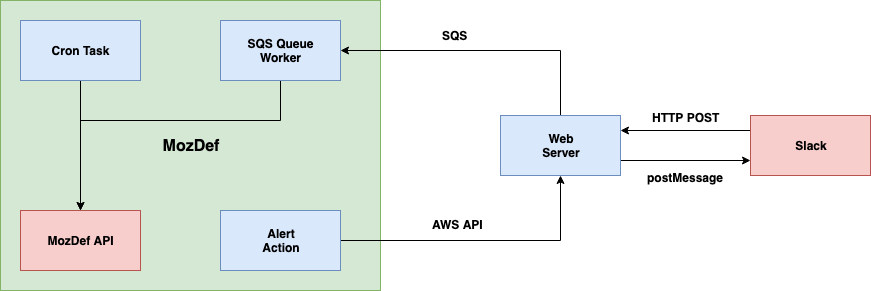
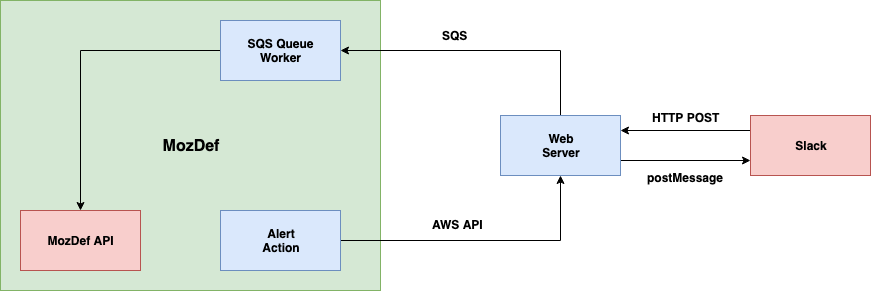
Remove duplicate alert handling from scope and make the MozDef UI changes optional to make the work more feasible

Changed region(s): [[0.0, 0.0619, 0.248, 0.2784], [0.093, 0.4021, 0.31, 0.433]]

diff --git a/docs/specifications/v0_1.md b/docs/specifications/v0_1.md
@@ -24,9 +24,9 @@ not having to handle them.
 the process of investigating an alert so that I can determine when it is
 not working as expected and not take on work I do not have to.
 
-**As a Mozillian**, I would like to be contacted in a friendly and non-intrusive
-way with information that explains in simple terms everything I need to
-understand and know how to respond.
+**As a Mozillian**, I would like to be contacted in a friendly way with
+information that explains in simple terms everything I need to understand
+and know how to respond.
 
 **As one of Mozilla’s Slack admins**, I would like to be able to easily
 understand how the triage bot will interface with Slack so that I can
@@ -65,23 +65,13 @@ be forwarded on to the relevant user.  This component has the following
 responsibilities:
 
 1. Given an alert, determine the email address belonging to the user identified.
-2. Query the REST API for similar alerts regarding the same user and either
-    1. Send an HTTP POST request to the web server component containing
-    information identifying the alert and the user or
-    2. Create or update a `DuplicateChain` to track the alert that triggered
-    the alert action until a response from the user is received.
+2. Invoke the the web server component via the AWS API to send information
+identifying the alert and the user.
 
 To notify the web server component about alerts, the alert action component
 will invoke the web server lambda function directly using the AWS API.  This
 will allow the alert action to authenticate itself to the web server using
 a key pair generated for a dedicated [IAM](https://aws.amazon.com/iam/) user.
-
-The alert action will make use of a table stored in the
-[MongoDB](https://www.mongodb.com/) instance that stores alerts in MozDef
-to store information about duplicate alerts that triggered the action before
-the user responds regarding the original. The type of data stored in this new
-table will be the `DuplicateChain` type defined in
-[Duplicate Alert Trackers](#duplicate-alert-trackers).
 
 The implementation of this component will reside within the
 [MozDef](https://github.com/mozilla/mozdef) repository.
@@ -107,24 +97,6 @@ mapping from user response to alert status.
 The implementation of this component will reside within the
 [MozDef](https://github.com/mozilla/mozdef) repository.
 
-### Cron Task
-
-Periodically, a [Cron](https://github.com/mozilla/MozDef/tree/master/cron) task
-will be run to:
-
-1. Retrieve `DuplicateChain`s from the MozDef API.
-2. Check, for each `(alert, user)` pair, to see if there is an alert whose status
-has been updated based on the user's response via Slack.
-3. Update all of the statuses of the duplicate alerts found to match that of the
-original alert.
-
-This process has the result of effectively "replaying" a user's response to one
-alert so that it is not necessary to message them about each duplicate alert
-received within some timeframe.
-
-The implementation of this component will reside within the
-[MozDef](https://github.com/mozilla/mozdef) repository.
-
 ## Additional Requirements
 
 ### Alert Status Update REST API Endpoint
@@ -134,31 +106,7 @@ endpoint will be added to MozDef's REST API to facilitate such updates.  This
 endpoint would accept information identifying an alert to which one or more
 users have responded as well as information indicating the response given.
 
-### Fetch Duplicate Chains REST API Endpoint
-
-At least one API endpoint will be required to facilitate the retrieval of
-`DuplicateChain`s.
-
-* The alert action component will need to be able to search for entries
-corresponding to a particular `(alert, user)` pair.
-* The cron task component will need to be able to retrieve a list of all
-`DuplicateChain`s stored.
-
-### Create/Update Duplicate Chain REST API Endpoint
-
-In order for the alert action component to create or update a `DuplicateChain`
-when a duplicate alert (i.e. an alert the web server is already handling) is
-encountered, an API endpoint will be needed to facilitate the creation or
-updating of entries.
-
-### Delete Duplicate Chain REST API Endpoint
-
-In order for the cron task component to delete a `DuplicateChain` after updating
-the status of any duplicate alerts whose originals have had their statuses
-updated, an endpoint will be required to facilitate the deletion of a single
-`DuplicateChain` entry at a time.
-
-### MozDef Alerts Page UI
+### MozDef Alerts Page UI (OPTIONAL)
 
 An addition will be made to MozDef's "Alerts" page, adding a column to the
 existing table of alerts within which the `status` of the alert will be
@@ -192,7 +140,7 @@ type AlertLabel
 * [duo_bypass_codes_generated](https://github.com/mozilla/mozdef_generic_alerts/blob/master/rules/duosecurity_bypass_generated.json)
 * [ssh_access_sign_releng](https://github.com/mozilla/MozDef/blob/master/alerts/ssh_access_signreleng.py)
 
-Requests sent to the web server containing information identifying alerts are
+Messages sent to the web server containing information identifying alerts are
 described here.  The complete specification for the API endpoint resides in
 the [API documentation](../api/v0_1.md).
 
@@ -245,30 +193,6 @@ by the web server component to include within the message to the user on Slack.
 Once the user responds, this identifier will be sent back with the response
 information by Slack allowing the web server to determine which alert was
 responded to.
-
-### Duplicate Alert Trackers
-
-The alert action component will be required to keep track of duplicate alerts
-that it does not send to the web server component.  In order to do so, the
-following data type will be stored in MozDef to track these alerts.
-
-```typescript
-type DuplicateChain = {
-  // A label that identifies the alert in question.
-  "alert": AlertLabel,
-
-  // The email address of the user who would have been notified of precisely
-  // one such alert.
-  "user": Email,
-
-  // The identifiers of alerts that the Alert Action did _not_ send to the
-  // web server component.
-  "identifiers": Array<string>
-}
-```
-
-In a relational database, the primary key of the table storing
-`DuplicateChain`s would be `(alert, user)`.
 
 ### User Response Messages
 
